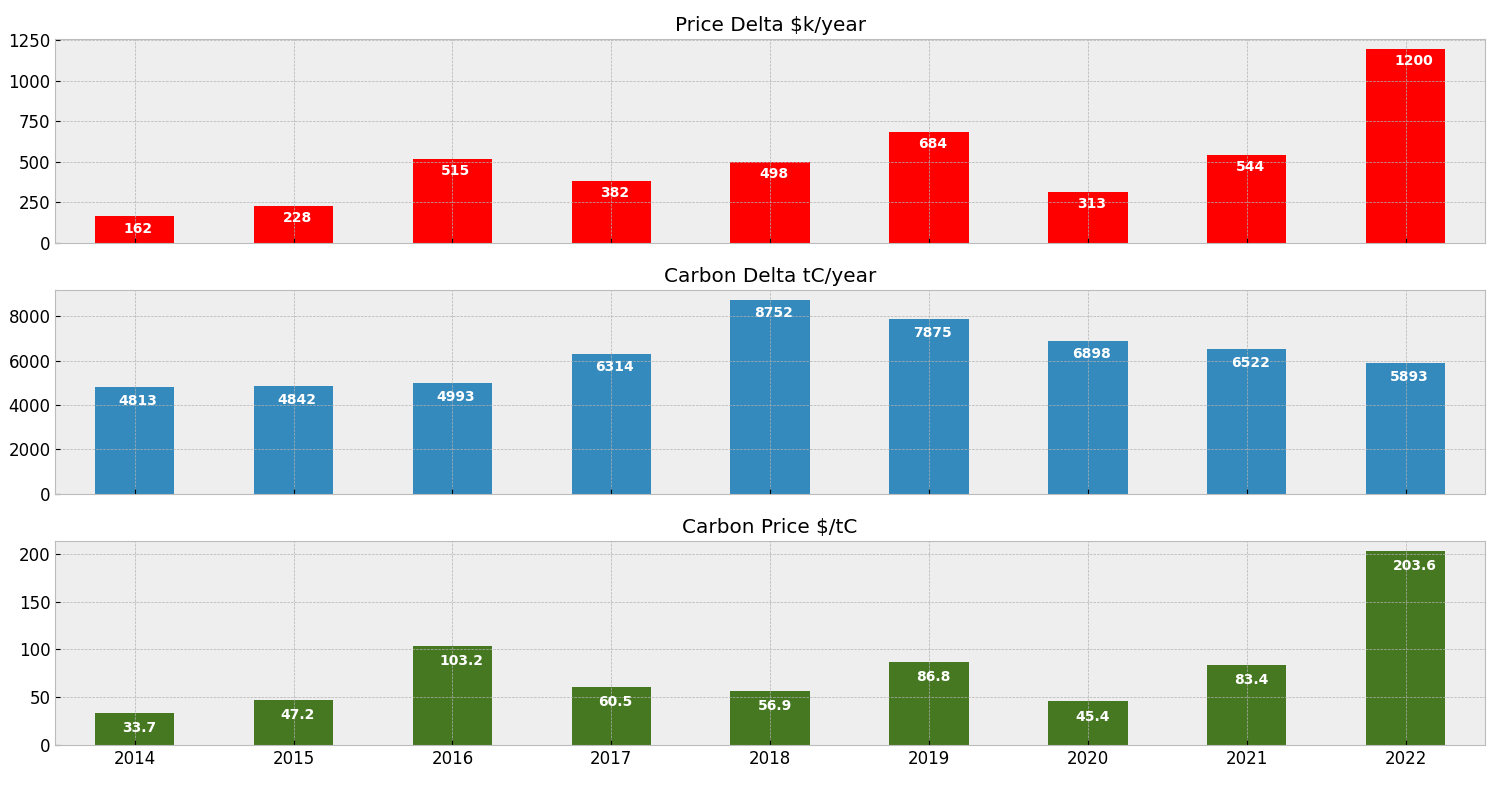
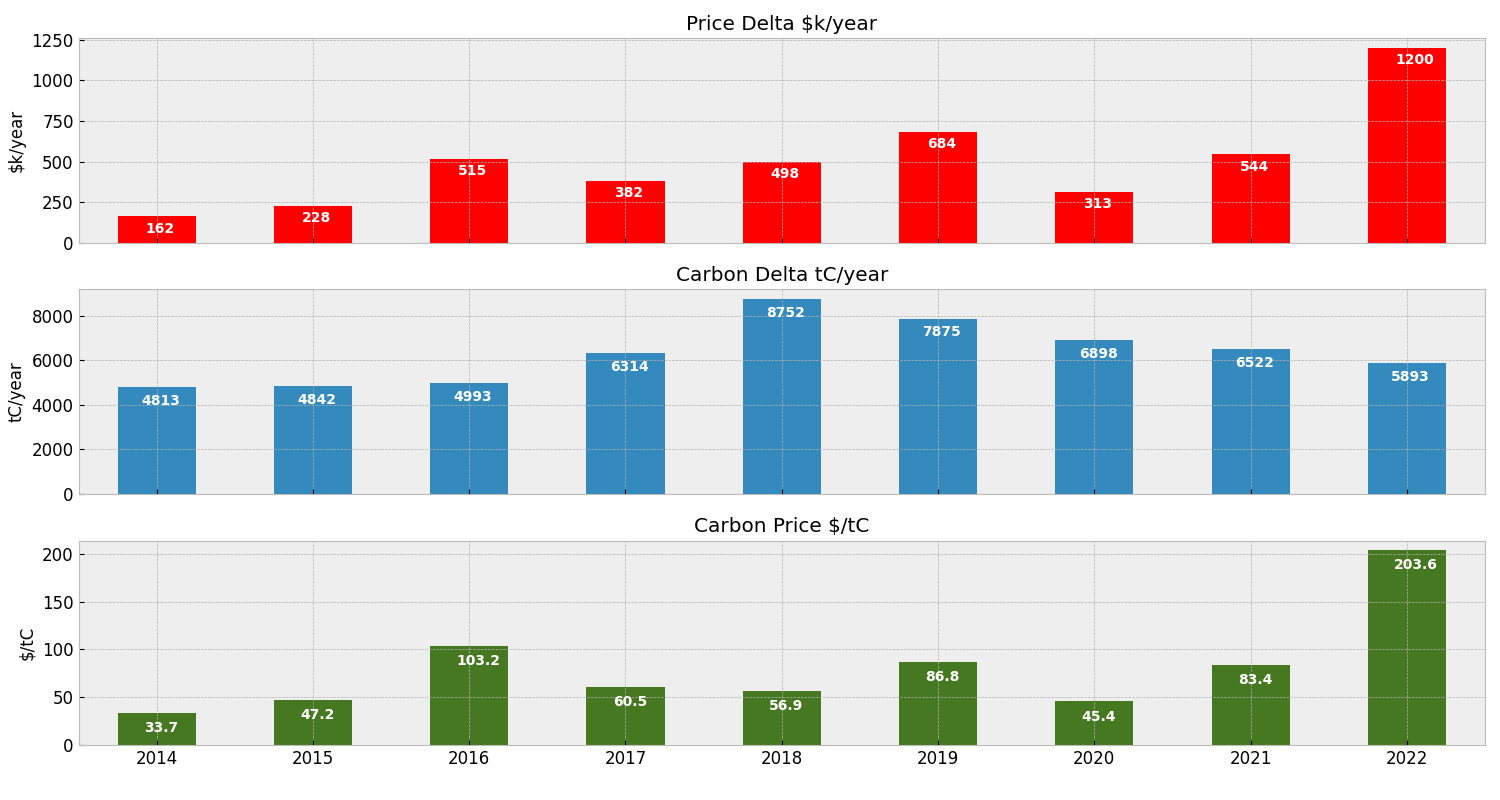
space between

diff --git a/_posts/2021-10-18-space-between-money-and-the-planet.md b/_posts/2021-10-18-space-between-money-and-the-planet.md
@@ -4,7 +4,7 @@ date: 2021-10-31
 date_updated: 2023-02-08
 categories:
   - Energy
-excerpt: Is there an opportunity cost for using batteries to save carbon?
+excerpt: The opportunity cost for using batteries to reduce carbon emissions.
 classes: wide2
 toc: true
 toc_sticky: true
@@ -242,8 +242,6 @@ These results are dramatic - changing our objective can often completely remove 
 What we are interested in is how these two simulations change together - by taking the difference between the two simulations (one for money, the other for carbon), we can measure how far the space is between them.
 
 The chart below shows the data grouped by month, but this time only shows the delta between our two worlds:
-
-TODO y axis labels
 
 ![](/assets/space-between-2023/monthly.png)
 
